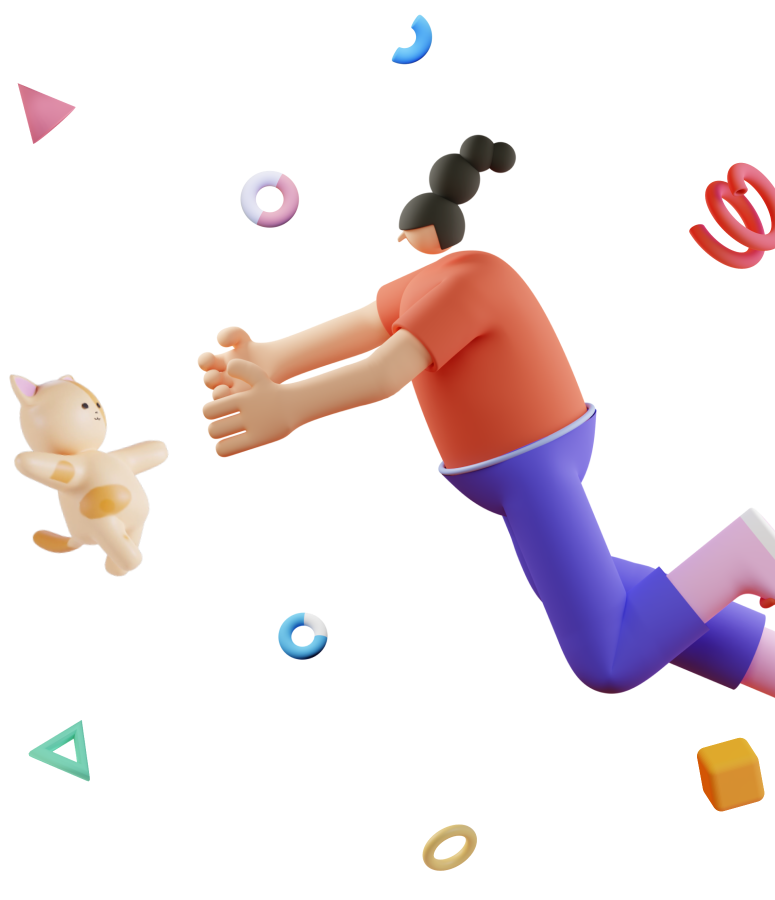
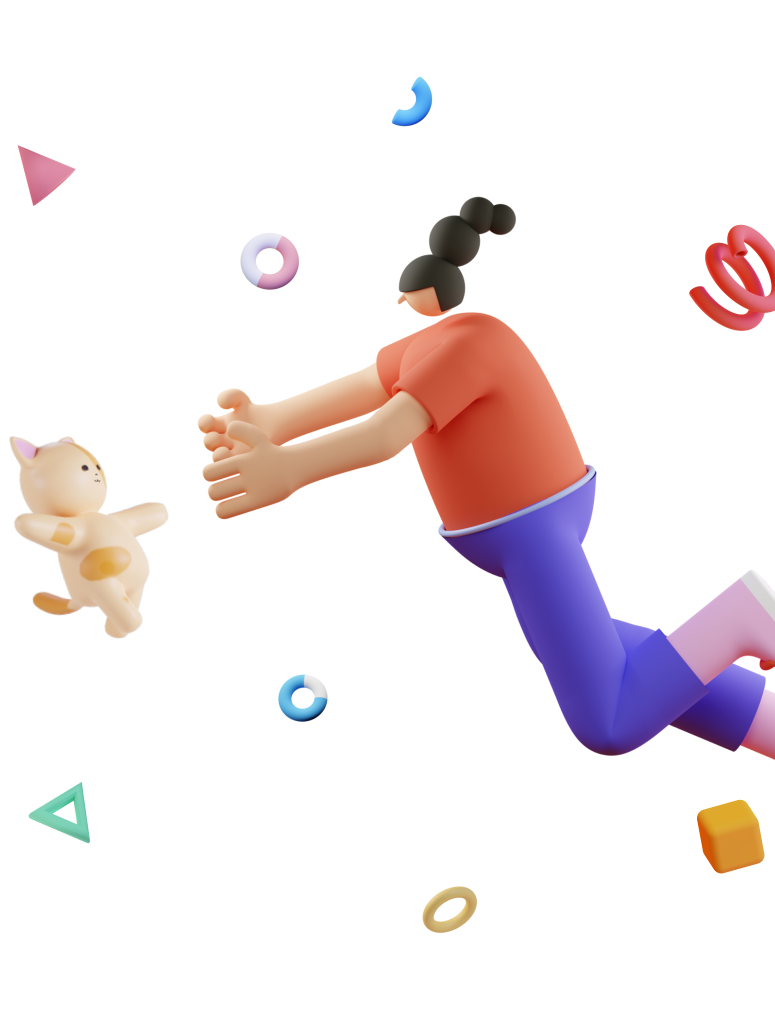
style[home]: make styles for Home page

diff --git a/src/pages/Home/Home.js b/src/pages/Home/Home.js
@@ -1,20 +1,22 @@
 import image1 from '../../pictures/girl-and-pet@1x.png';
 import image2 from '../../pictures/girl-and-pet@2x.png';
+import { Background, Img, PictureWrapper } from './Home.styled';
 
 const Home = () => {
   return (
     <div>
-      <picture>
+      <PictureWrapper>
         <source srcSet={`${image1} 1x, ${image2} 2x`} type="image/png" />
 
-        <img
+        <Img
           src="{image1}"
           alt="girl-and-pet"
           width="775px"
           height="900px"
           loading="lazy"
         />
-      </picture>
+      </PictureWrapper>
+      <Background />
     </div>
   );
 };

diff --git a/src/pages/Home/Home.styled.jsx b/src/pages/Home/Home.styled.jsx
@@ -1,0 +1,23 @@
+import styled from 'styled-components';
+
+export const PictureWrapper = styled.picture`
+  width: 775px;
+  height: 900px;
+  position: absolute;
+  top: 0;
+  right: 0;
+`;
+
+export const Img = styled.img`
+  width: 100%;
+  height: 100%;
+  object-fit: cover;
+`;
+
+export const Background = styled.div`
+  width: 680px;
+  height: 840px;
+  border-radius: 20px;
+  background: #fbe0dc;
+  padding: 30px 30px 30px 65px;
+`;
